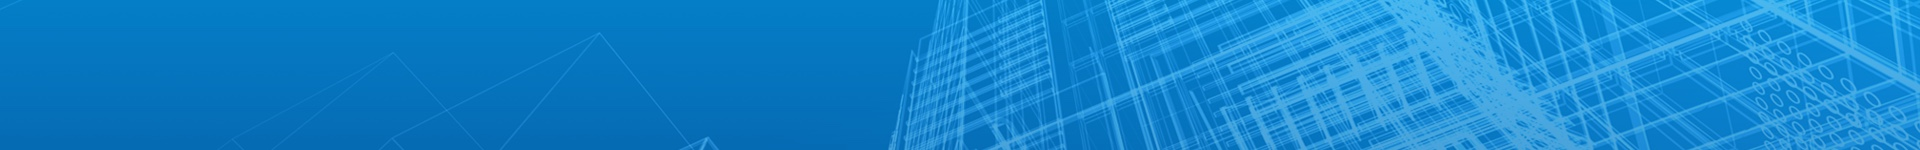
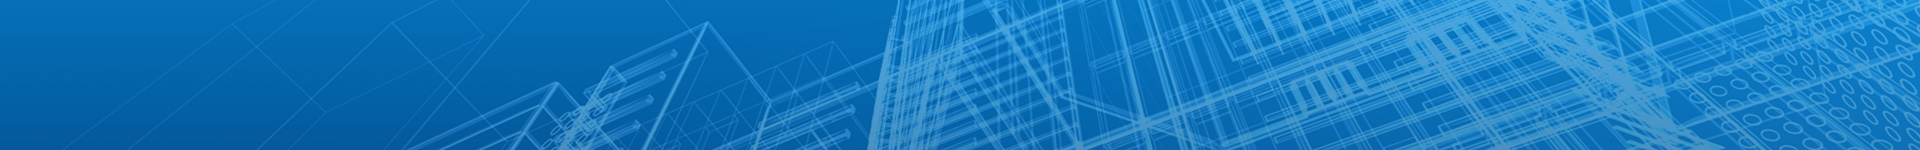
update otb client ui (reduce header/banding image height & tweak layout)

diff --git a/softWrench.sW4.Web/Content/styles/default/_branding.scss b/softWrench.sW4.Web/Content/styles/default/_branding.scss
@@ -30,8 +30,9 @@ $asset_path: "../../Images";
             background-color: $signin_background;
         }
 
-        .branding {
-        }
+        /*.branding {
+            background: url(#{$asset_path}/branding.png) no-repeat top left;
+        }*/
     }
 
     footer {
@@ -59,6 +60,12 @@ $asset_path: "../../Images";
     }
 }
 
+/*@media all and (min-width: 330px) {
+    .container header .branding .logo img {
+       height: 60px;
+    }
+}*/
+
 @media only screen and (min-width: 480px) and (max-width: 767px) {
     .page-signin {
         background: $background_color url(#{$asset_path}/signin-xs.jpg) no-repeat center center fixed;
@@ -77,14 +84,9 @@ $asset_path: "../../Images";
         .shadow {
             box-shadow: 0 0 30px 5px rgba(#000, 0.6);
         }
-        /*.logo.main img {
-            padding: 0;
-        }*/
+
         .form-signin {
             background-color: $signin_background;
-            /*.user-links {
-                margin-bottom: 0;
-            }*/
         }
     }
 }

diff --git a/softWrench.sW4.Web/Content/styles/default/_header.scss b/softWrench.sW4.Web/Content/styles/default/_header.scss
@@ -155,7 +155,7 @@
                 padding: 15px 20px 10px;
                 cursor: pointer;
                 background-color: #878787;
-                border-bottom: #000 1px solid;
+                border-top: #000 1px solid;
             }
 
             div.menu-open + .menu-items {
